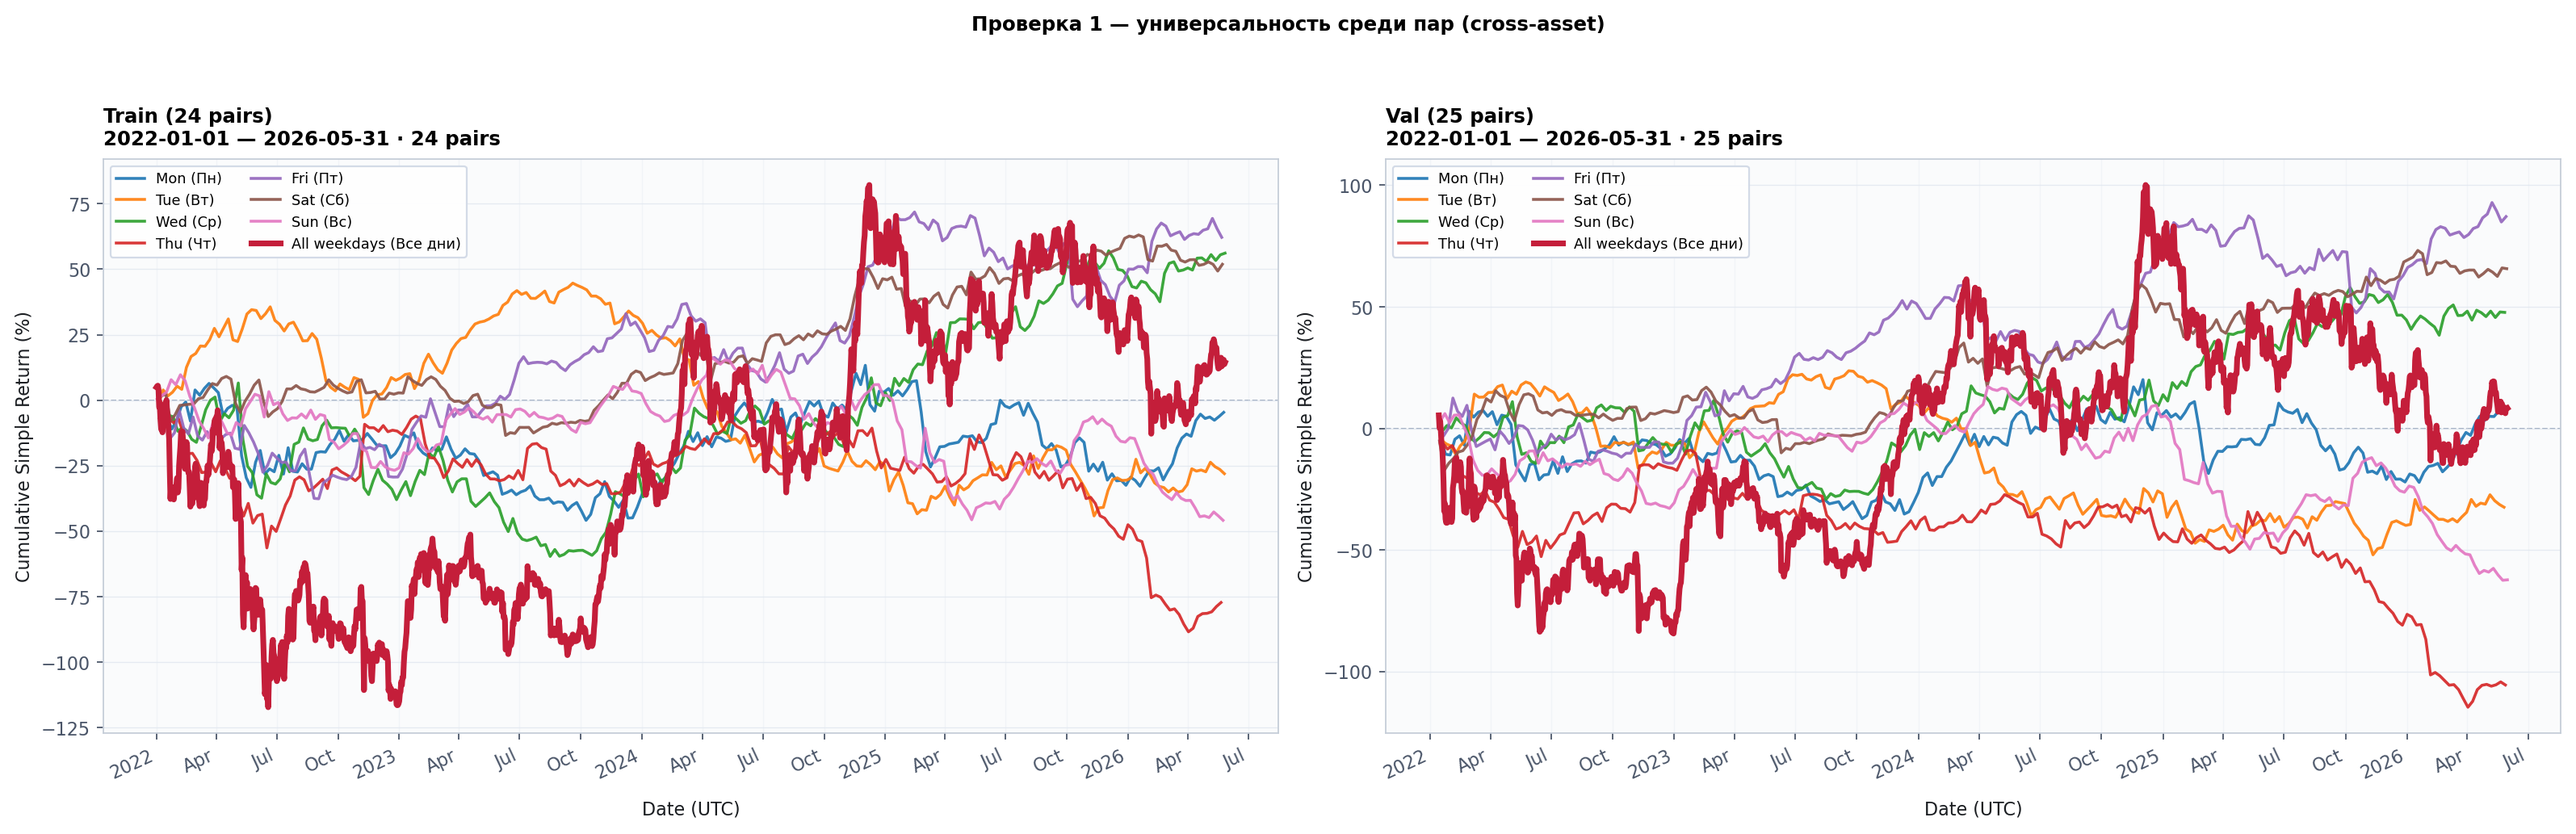
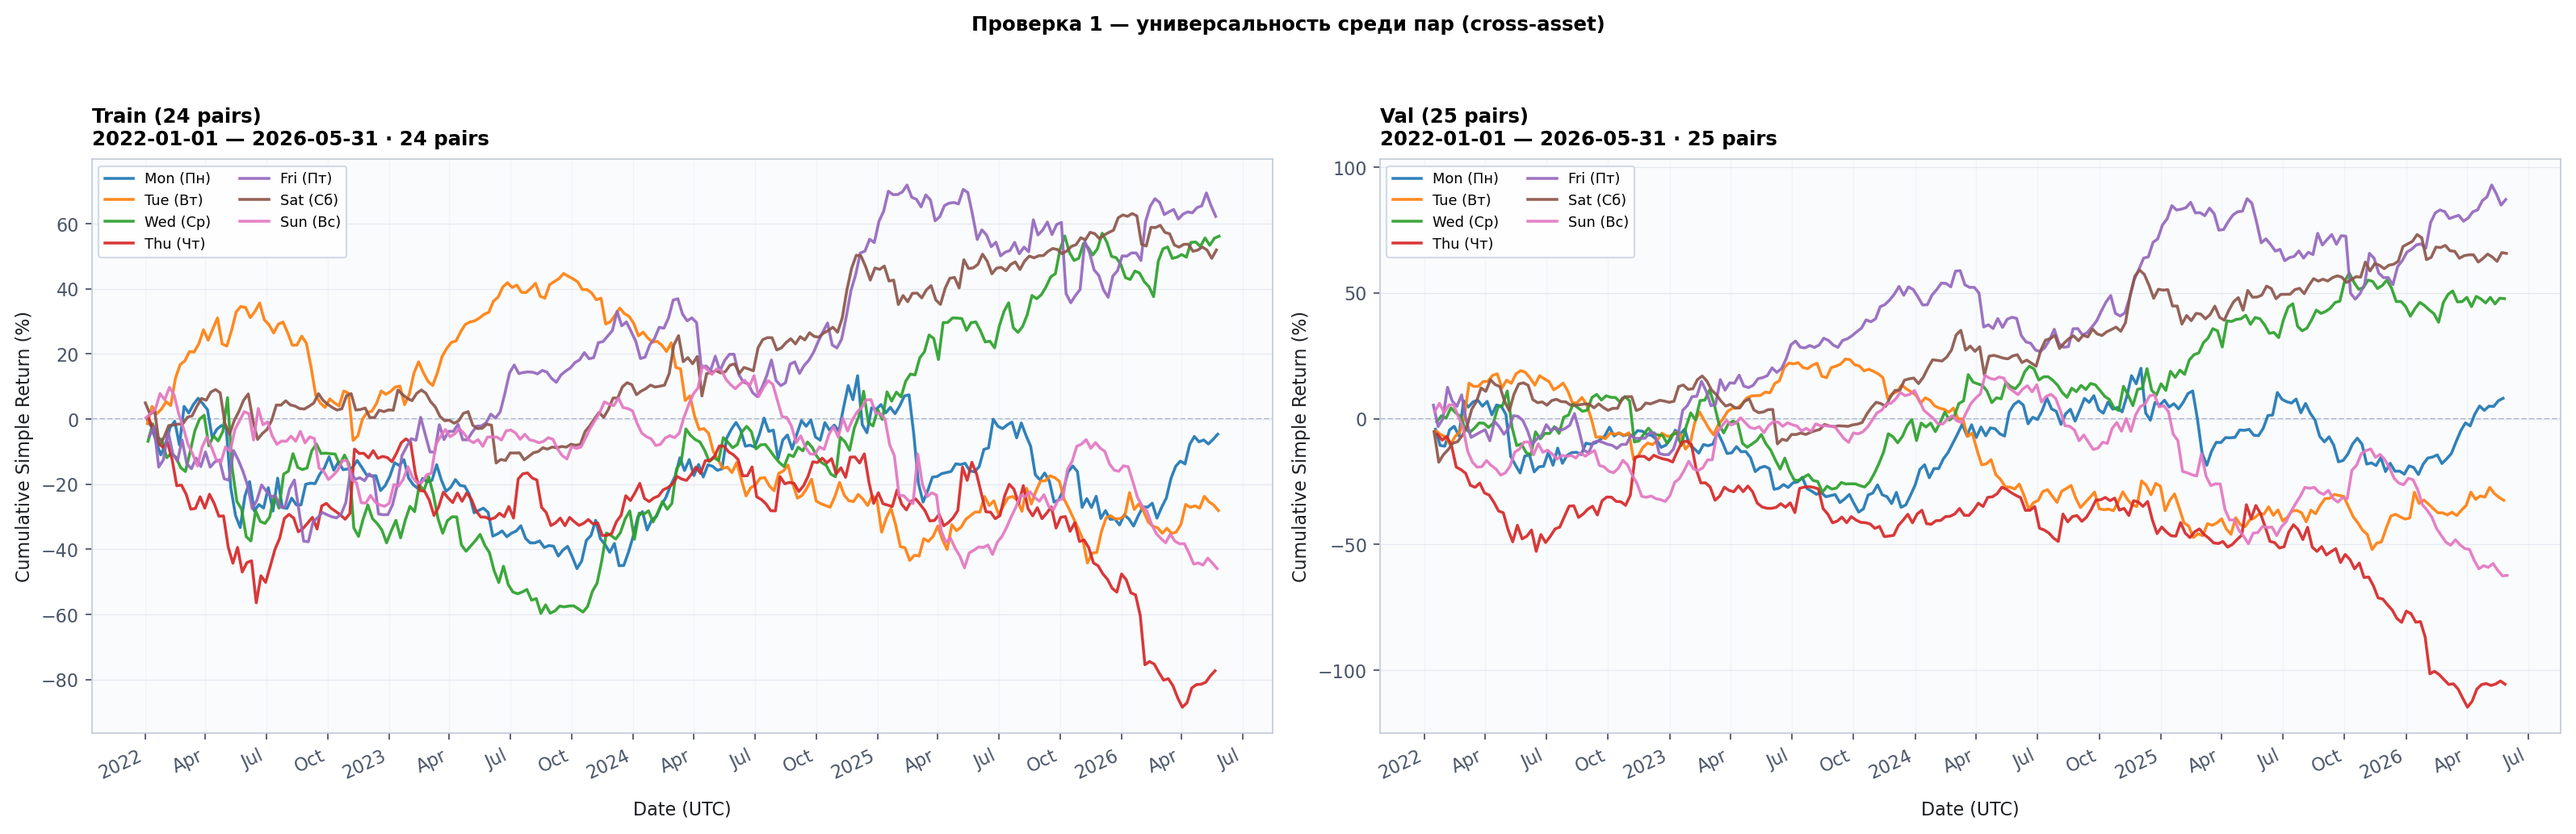
fix plots

diff --git a/utils/pipeline/weekday_plots.py b/utils/pipeline/weekday_plots.py
@@ -38,8 +38,6 @@ LINE_WIDTH_DEFAULT = 1.6
 LINE_WIDTH_COMPACT = 1.2
 LINE_WIDTH_HIGHLIGHT = 3.2
 LINE_WIDTH_DIM = 0.9
-AGGREGATE_COLOR = "#c41e3a"
-AGGREGATE_LINE_WIDTH = 3.2
 CHECK_FIG_W_IN = 20.0
 CHECK_FIG_H_IN = 6.5
 MAIN_PLOT_BOTTOM = 0.18
@@ -122,22 +120,6 @@ def _cumulative_simple_return_pct(returns_pct: np.ndarray) -> np.ndarray:
     return np.cumsum(returns_pct.astype(np.float64))
 
 
-def _all_weekdays_curve(daily: pl.DataFrame, pair: str | None = None) -> tuple[np.ndarray, np.ndarray] | None:
-    df = _normalize_weekday(daily)
-    if pair is not None:
-        df = df.filter(pl.col("pair") == pair)
-    agg = (
-        df.group_by("day_utc")
-        .agg(pl.col("return_pct").mean().alias("return_pct"))
-        .sort("day_utc")
-    )
-    if agg.height == 0:
-        return None
-    dates = agg["day_utc"].to_numpy()
-    nav = _cumulative_simple_return_pct(agg["return_pct"].to_numpy())
-    return dates, nav
-
-
 def _weekday_curves(session: pl.DataFrame) -> dict[int, tuple[np.ndarray, np.ndarray]]:
     out: dict[int, tuple[np.ndarray, np.ndarray]] = {}
     for wd in range(7):
@@ -175,7 +157,6 @@ def _plot_weekday_nav(
     compact: bool,
     xlabel: str | None = None,
     highlight_weekdays: frozenset[int] = frozenset(),
-    aggregate_curve: tuple[np.ndarray, np.ndarray] | None = None,
 ) -> None:
     for wd in range(7):
         if wd not in curves:
@@ -194,17 +175,6 @@ def _plot_weekday_nav(
             label=f"{WEEKDAY_LABELS[wd]} ({WEEKDAY_LABELS_RU[wd]})",
             alpha=alpha,
             zorder=zorder,
-        )
-    if aggregate_curve is not None:
-        dates, nav = aggregate_curve
-        ax.plot(
-            dates,
-            nav,
-            color=AGGREGATE_COLOR,
-            linewidth=AGGREGATE_LINE_WIDTH,
-            label="All weekdays (Все дни)",
-            alpha=1.0,
-            zorder=5,
         )
     ax.axhline(ZERO_LINE, color="#94a3b8", linewidth=0.8, linestyle="--", zorder=0)
     if title:
@@ -317,7 +287,6 @@ def _plot_train_val_panel(
 ) -> None:
     session = _session_returns(daily, None)
     curves = _weekday_curves(session)
-    aggregate = _all_weekdays_curve(daily, None)
     period = f"{from_date:%Y-%m-%d} — {to_date:%Y-%m-%d}"
     _plot_weekday_nav(
         ax,
@@ -325,7 +294,6 @@ def _plot_train_val_panel(
         title=f"{panel_title}\n{period} · {len(pairs)} pairs",
         compact=False,
         xlabel="Date (UTC)",
-        aggregate_curve=aggregate,
     )
 
 
